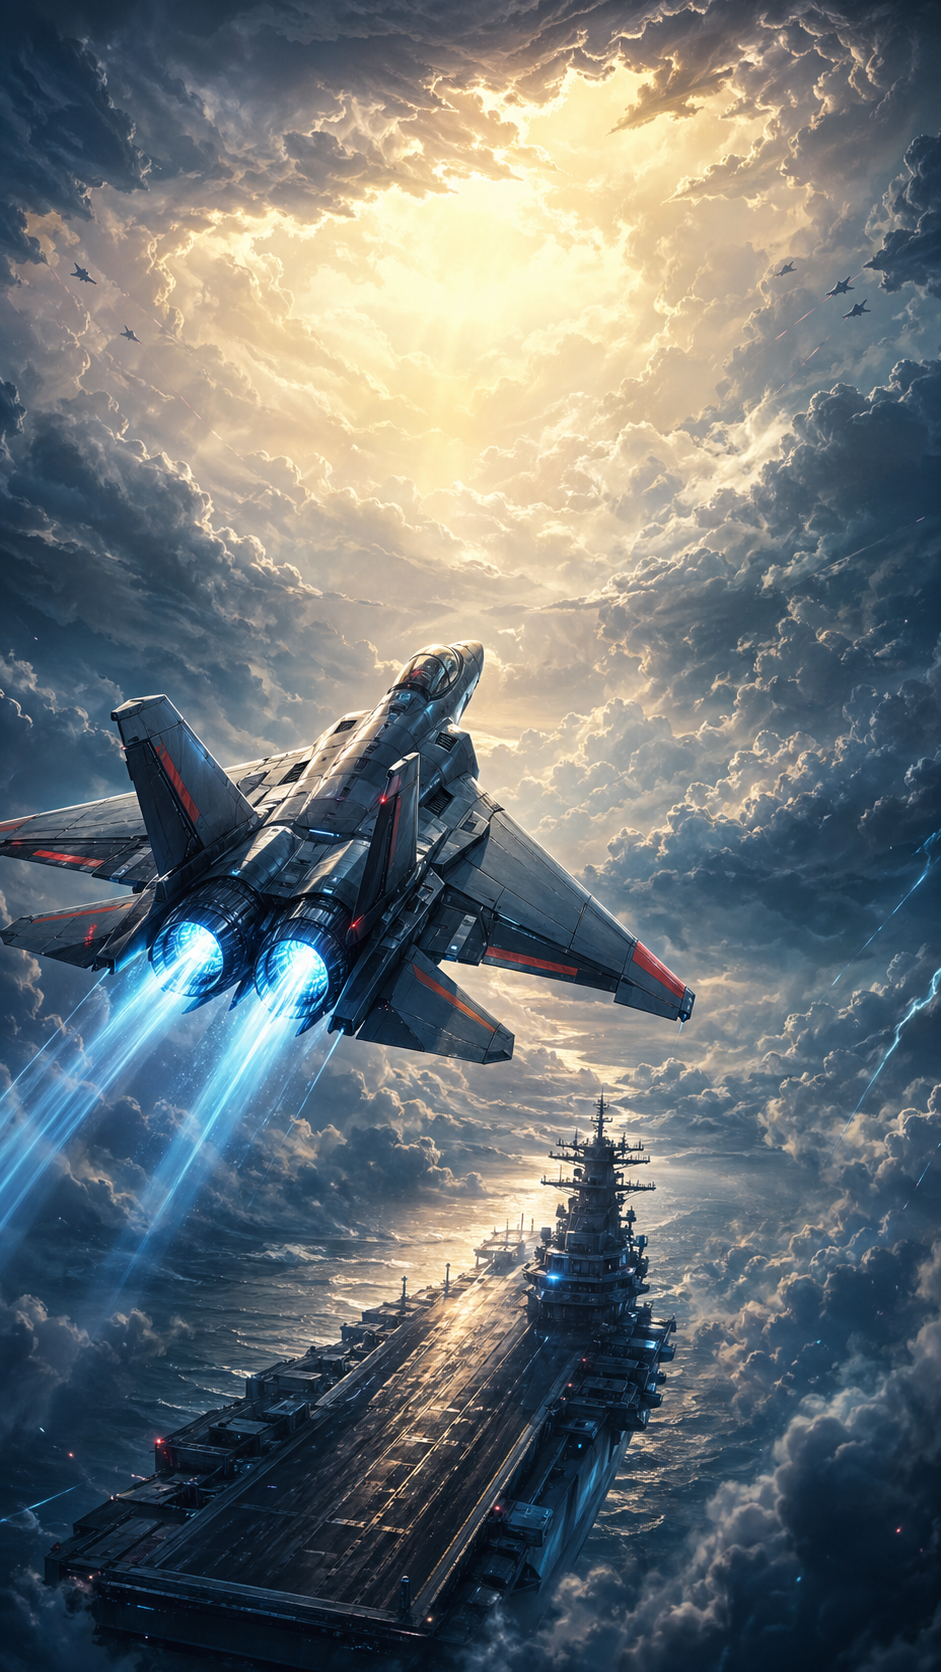
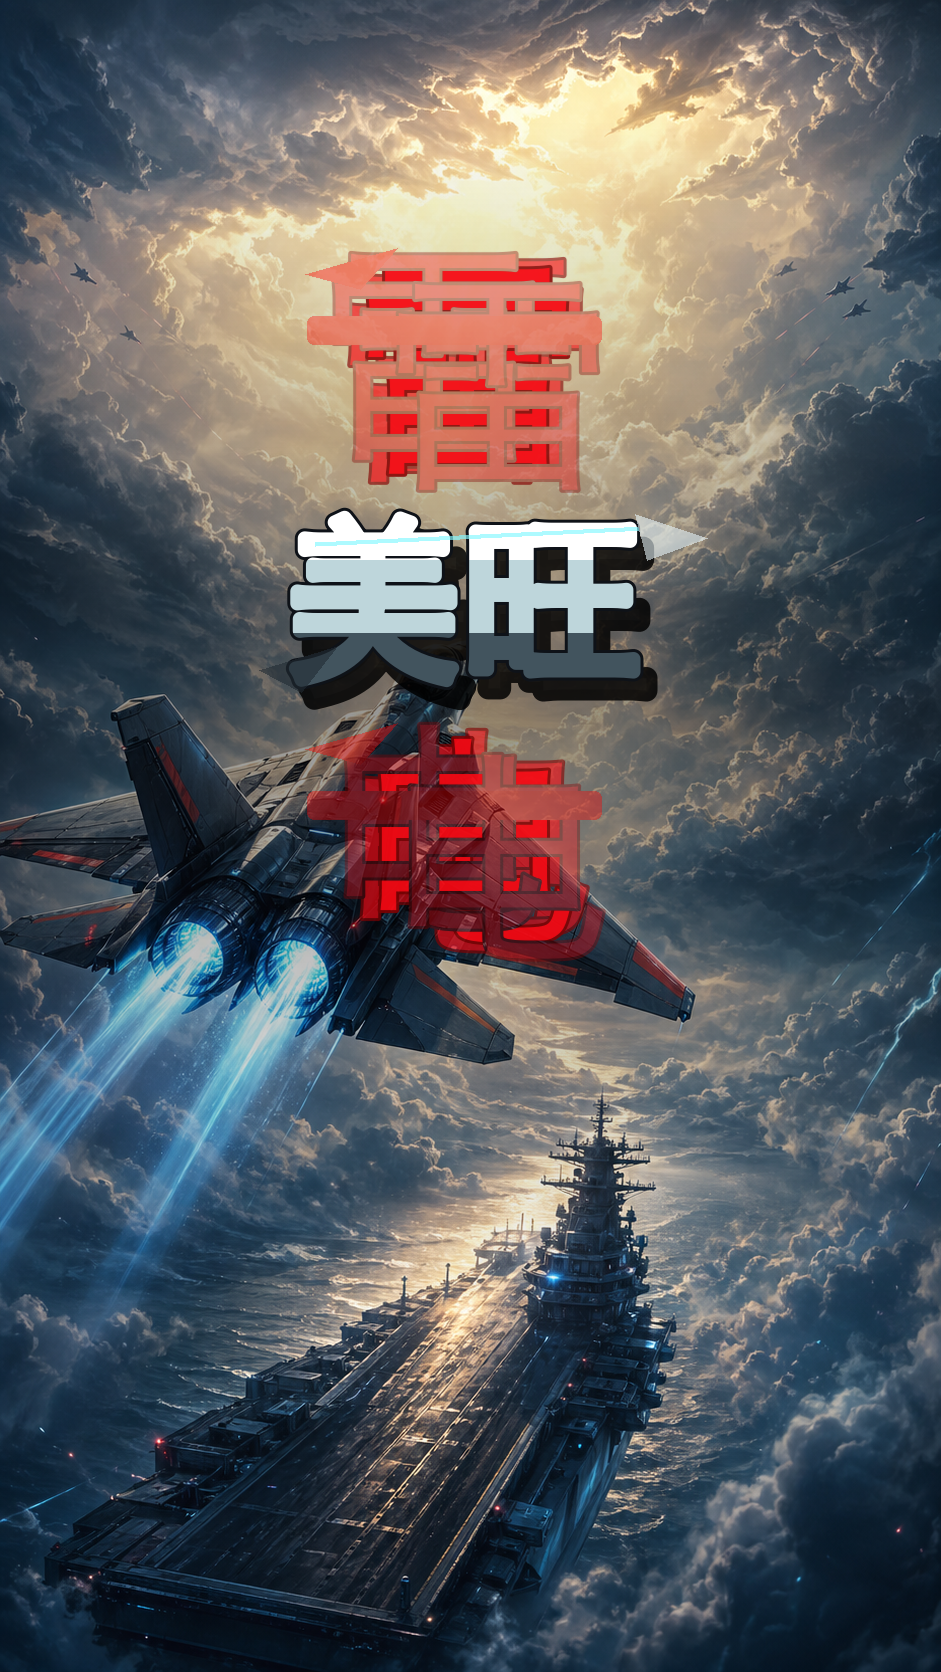
Polish title menu artwork

diff --git a/Assets/Scripts/Bootstrap/MenuBootstrap.cs b/Assets/Scripts/Bootstrap/MenuBootstrap.cs
@@ -16,8 +16,6 @@ namespace Wanwan.Runtime
         private Text sfxValueText;
         private Text opacityValueText;
         private Text saveStatusText;
-        private Image cinematicBackground;
-        private float cinematicTimer;
         private float saveStatusTimer;
 
         private void Awake()
@@ -32,7 +30,6 @@ namespace Wanwan.Runtime
 
         private void Update()
         {
-            AnimateCinematicBackground();
             RefreshSaveStatus();
         }
 
@@ -77,10 +74,9 @@ namespace Wanwan.Runtime
         {
             ClearCanvas();
             Image background = UiFactory.CreatePanel(canvas.transform, name, Color.white, Vector2.zero, Vector2.one);
-            background.sprite = RuntimeSpriteFactory.GetSkyBackgroundSprite();
+            background.sprite = state == MenuUiState.Title ? RuntimeSpriteFactory.GetMenuStormTitleSprite() : RuntimeSpriteFactory.GetSkyBackgroundSprite();
             background.preserveAspect = false;
             background.raycastTarget = false;
-            cinematicBackground = background;
 
             Image shade = UiFactory.CreatePanel(background.transform, name + "Shade", new Color(0.01f, 0.02f, 0.05f, 0.34f), Vector2.zero, Vector2.one);
             shade.raycastTarget = false;
@@ -88,19 +84,6 @@ namespace Wanwan.Runtime
             UiFactory.CreatePanel(background.transform, name + "BottomVignette", new Color(0f, 0f, 0f, 0.58f), Vector2.zero, new Vector2(1f, 0.42f)).raycastTarget = false;
             CreateScanlines(background.transform);
             return background;
-        }
-
-        private void AnimateCinematicBackground()
-        {
-            if (cinematicBackground == null)
-            {
-                return;
-            }
-
-            cinematicTimer += Time.unscaledDeltaTime;
-            float loop = Mathf.Repeat(cinematicTimer, 5.2f) / 5.2f;
-            float eased = loop * loop * (3f - (2f * loop));
-            cinematicBackground.rectTransform.anchoredPosition = new Vector2(0f, Mathf.Lerp(22f, -18f, eased));
         }
 
         private static void CreateScanlines(Transform parent)
@@ -127,15 +110,9 @@ namespace Wanwan.Runtime
             state = MenuUiState.Title;
             Image background = CreateBackground("TitleBackground");
 
-            UiFactory.CreateArcadeLabel(background.transform, "WANWAN", ArcadeTheme.LogoSize, TextAnchor.MiddleCenter, new Color(0f, 0f, 0f, 0.68f), FontStyle.Bold, new Vector2(0.08f, 0.79f), new Vector2(0.92f, 0.89f), new Vector2(4f, -5f));
-            UiFactory.CreateArcadeLabel(background.transform, "WANWAN", ArcadeTheme.LogoSize, TextAnchor.MiddleCenter, ArcadeTheme.White, FontStyle.Bold, new Vector2(0.08f, 0.79f), new Vector2(0.92f, 0.89f), Vector2.zero);
-            UiFactory.CreateArcadeLabel(background.transform, "空投爆破", ArcadeTheme.ScreenTitleSize, TextAnchor.MiddleCenter, ArcadeTheme.EnergyYellow, FontStyle.Bold, new Vector2(0.08f, 0.735f), new Vector2(0.92f, 0.805f), Vector2.zero);
-            UiFactory.CreateDivider(background.transform, "TitleHotLine", ArcadeTheme.WarningRed, new Vector2(0.2f, 0.724f), new Vector2(0.8f, 0.73f));
-            UiFactory.CreateArcadeLabel(background.transform, "街机空战准备完成", ArcadeTheme.BodySize, TextAnchor.MiddleCenter, ArcadeTheme.ElectricBlue, FontStyle.Bold, new Vector2(0.08f, 0.67f), new Vector2(0.92f, 0.715f), Vector2.zero);
-
-            Button leaderboard = UiFactory.CreateArcadeIconButton(background.transform, "榜", ArcadeTheme.EnergyYellow, new Vector2(104f, 104f), new Vector2(76f, -136f), new Vector2(0f, 1f), new Vector2(0f, 1f));
+            Button leaderboard = UiFactory.CreateArcadeSpriteIconButton(background.transform, RuntimeSpriteFactory.GetLeaderboardIconSprite(), ArcadeTheme.EnergyYellow, new Vector2(96f, 96f), new Vector2(76f, -132f), new Vector2(0f, 1f), new Vector2(0f, 1f));
             leaderboard.onClick.AddListener(ShowLeaderboard);
-            Button settings = UiFactory.CreateArcadeIconButton(background.transform, "设", ArcadeTheme.ElectricBlue, new Vector2(104f, 104f), new Vector2(-76f, -136f), Vector2.one, Vector2.one);
+            Button settings = UiFactory.CreateArcadeSpriteIconButton(background.transform, RuntimeSpriteFactory.GetSettingsIconSprite(), ArcadeTheme.ElectricBlue, new Vector2(96f, 96f), new Vector2(-76f, -132f), Vector2.one, Vector2.one);
             settings.onClick.AddListener(ShowSettings);
 
             saveStatusText = UiFactory.CreateArcadeLabel(background.transform, string.Empty, ArcadeTheme.BodySize, TextAnchor.MiddleCenter, ArcadeTheme.EnergyYellow, FontStyle.Bold, new Vector2(0.12f, 0.27f), new Vector2(0.88f, 0.32f), Vector2.zero);
@@ -143,11 +120,11 @@ namespace Wanwan.Runtime
 
             Image menu = UiFactory.CreatePanel(background.transform, "TitleMenu", Color.clear, new Vector2(0.06f, 0.075f), new Vector2(0.94f, 0.265f));
             menu.raycastTarget = false;
-            Button save = UiFactory.CreateArcadeCircleButton(menu.transform, "保存", ArcadeTheme.ElectricBlue, new Vector2(142f, 142f), new Vector2(-312f, 0f));
+            Button save = UiFactory.CreateArcadeCircleButton(menu.transform, "保存", ArcadeTheme.ElectricBlue, new Vector2(213f, 213f), new Vector2(-360f, 0f));
             save.onClick.AddListener(ShowAutoSaveStatus);
-            Button start = UiFactory.CreateArcadeCircleButton(menu.transform, "开始", ArcadeTheme.EnergyYellow, new Vector2(190f, 190f), Vector2.zero);
+            Button start = UiFactory.CreateArcadeCircleButton(menu.transform, "开始", ArcadeTheme.EnergyYellow, new Vector2(285f, 285f), Vector2.zero);
             start.onClick.AddListener(SceneNavigator.LoadGame);
-            Button exit = UiFactory.CreateArcadeCircleButton(menu.transform, "退出", ArcadeTheme.WarningRed, new Vector2(142f, 142f), new Vector2(312f, 0f));
+            Button exit = UiFactory.CreateArcadeCircleButton(menu.transform, "退出", ArcadeTheme.WarningRed, new Vector2(213f, 213f), new Vector2(360f, 0f));
             exit.onClick.AddListener(Application.Quit);
 
             string hiScore = $"最高分 {SessionState.HighScore:0000000}";

diff --git a/Assets/Scripts/Runtime/RuntimeSpriteFactory.cs b/Assets/Scripts/Runtime/RuntimeSpriteFactory.cs
@@ -43,6 +43,16 @@ namespace Wanwan.Runtime
             return GetOrCreate("circle", BuildCircleTexture);
         }
 
+        public static Sprite GetLeaderboardIconSprite()
+        {
+            return GetOrCreate("leaderboard-icon", BuildLeaderboardIconTexture);
+        }
+
+        public static Sprite GetSettingsIconSprite()
+        {
+            return GetOrCreate("settings-icon", BuildSettingsIconTexture);
+        }
+
         public static Sprite GetMissileSprite()
         {
             return GetOrCreate("missile", BuildMissileTexture);
@@ -299,6 +309,61 @@ namespace Wanwan.Runtime
                     float distance = Vector2.Distance(new Vector2(x, y), center);
                     float alpha = distance <= radius ? 1f : 0f;
                     texture.SetPixel(x, y, new Color(1f, 1f, 1f, alpha));
+                }
+            }
+
+            texture.Apply();
+            return texture;
+        }
+
+        private static Texture2D BuildLeaderboardIconTexture()
+        {
+            const int size = 128;
+            Texture2D texture = new Texture2D(size, size, TextureFormat.RGBA32, false);
+
+            for (int y = 0; y < size; y++)
+            {
+                for (int x = 0; x < size; x++)
+                {
+                    bool cup = x >= 38 && x <= 90 && y >= 52 && y <= 91;
+                    bool cupLip = x >= 32 && x <= 96 && y >= 86 && y <= 100;
+                    bool cupCut = Mathf.Abs(x - 64f) > Mathf.Lerp(34f, 21f, Mathf.InverseLerp(52f, 91f, y)) && y < 88;
+                    bool leftHandle = x >= 20 && x < 40 && y >= 60 && y <= 88 && Vector2.Distance(new Vector2(x, y), new Vector2(39f, 74f)) < 23f;
+                    bool rightHandle = x > 88 && x <= 108 && y >= 60 && y <= 88 && Vector2.Distance(new Vector2(x, y), new Vector2(89f, 74f)) < 23f;
+                    bool handleHole = (x < 37 || x > 91) && Vector2.Distance(new Vector2(x, y), new Vector2(x < 64 ? 39f : 89f, 74f)) < 12f;
+                    bool stem = x >= 56 && x <= 72 && y >= 33 && y <= 54;
+                    bool baseTop = x >= 45 && x <= 83 && y >= 25 && y <= 36;
+                    bool baseBottom = x >= 32 && x <= 96 && y >= 15 && y <= 28;
+                    bool star = Mathf.Abs(x - 64f) + Mathf.Abs(y - 73f) < 13f || (x >= 58 && x <= 70 && y >= 62 && y <= 84);
+                    bool lit = ((cup || cupLip) && !cupCut) || (leftHandle || rightHandle) && !handleHole || stem || baseTop || baseBottom || star;
+                    texture.SetPixel(x, y, lit ? Color.white : Color.clear);
+                }
+            }
+
+            texture.Apply();
+            return texture;
+        }
+
+        private static Texture2D BuildSettingsIconTexture()
+        {
+            const int size = 128;
+            Texture2D texture = new Texture2D(size, size, TextureFormat.RGBA32, false);
+            Vector2 center = new Vector2(64f, 64f);
+
+            for (int y = 0; y < size; y++)
+            {
+                for (int x = 0; x < size; x++)
+                {
+                    Vector2 p = new Vector2(x, y) - center;
+                    float radius = p.magnitude;
+                    float angle = Mathf.Atan2(p.y, p.x);
+                    float tooth = Mathf.Abs(Mathf.Sin(angle * 6f));
+                    bool outerTeeth = radius >= 38f && radius <= Mathf.Lerp(46f, 56f, tooth);
+                    bool ring = radius >= 25f && radius <= 40f;
+                    bool hub = radius >= 10f && radius <= 19f;
+                    bool centerHole = radius < 8f;
+                    bool lit = (outerTeeth || ring || hub) && !centerHole;
+                    texture.SetPixel(x, y, lit ? Color.white : Color.clear);
                 }
             }
 

diff --git a/Assets/Scripts/UI/UiFactory.cs b/Assets/Scripts/UI/UiFactory.cs
@@ -234,6 +234,41 @@ namespace Wanwan.Runtime
             return button;
         }
 
+        public static Button CreateArcadeSpriteIconButton(Transform parent, Sprite icon, Color accentColor, Vector2 size, Vector2 anchoredPosition, Vector2 anchorMin, Vector2 anchorMax)
+        {
+            Button button = CreateButton(parent, string.Empty, Color.clear, Color.clear, size, anchoredPosition);
+            RectTransform rect = button.GetComponent<RectTransform>();
+            rect.anchorMin = anchorMin;
+            rect.anchorMax = anchorMax;
+
+            Image background = button.GetComponent<Image>();
+            background.color = new Color(0f, 0f, 0f, 0.18f);
+            background.sprite = RuntimeSpriteFactory.GetRoundedSquareSprite();
+
+            Image glow = CreatePanel(button.transform, "IconGlow", accentColor, new Vector2(0.08f, 0.08f), new Vector2(0.92f, 0.92f));
+            glow.sprite = RuntimeSpriteFactory.GetRoundedSquareSprite();
+            glow.color = new Color(accentColor.r, accentColor.g, accentColor.b, 0.22f);
+            glow.raycastTarget = false;
+
+            Image iconImage = CreatePanel(button.transform, "Icon", accentColor, new Vector2(0.18f, 0.18f), new Vector2(0.82f, 0.82f));
+            iconImage.sprite = icon;
+            iconImage.preserveAspect = true;
+            iconImage.raycastTarget = false;
+            button.targetGraphic = iconImage;
+
+            ColorBlock colors = button.colors;
+            colors.normalColor = accentColor;
+            colors.highlightedColor = Color.Lerp(accentColor, Color.white, 0.18f);
+            colors.pressedColor = Color.Lerp(accentColor, ArcadeTheme.WarningRed, 0.28f);
+            colors.selectedColor = accentColor;
+            colors.disabledColor = ArcadeTheme.DimGray;
+            button.colors = colors;
+
+            ArcadeButtonPressFeedback feedback = button.gameObject.AddComponent<ArcadeButtonPressFeedback>();
+            feedback.Configure(iconImage, null, glow, accentColor);
+            return button;
+        }
+
         public static Button CreateMenuItem(Transform parent, string label, int order, UnityEngine.Events.UnityAction onClick)
         {
             Button button = CreatePixelButton(parent, "▶ " + label, ArcadeTheme.EnergyYellow, new Vector2(600f, 88f), new Vector2(0f, 180f - (order * 104f)));
